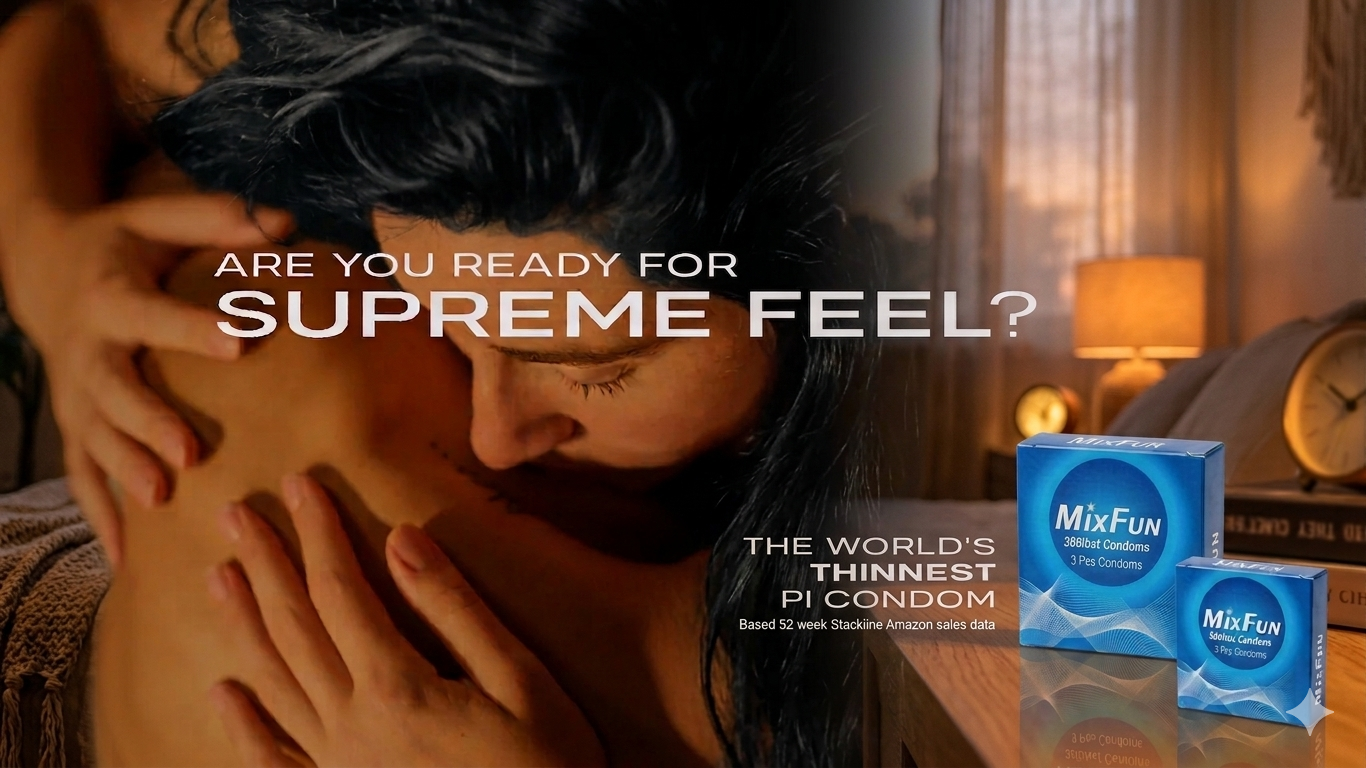
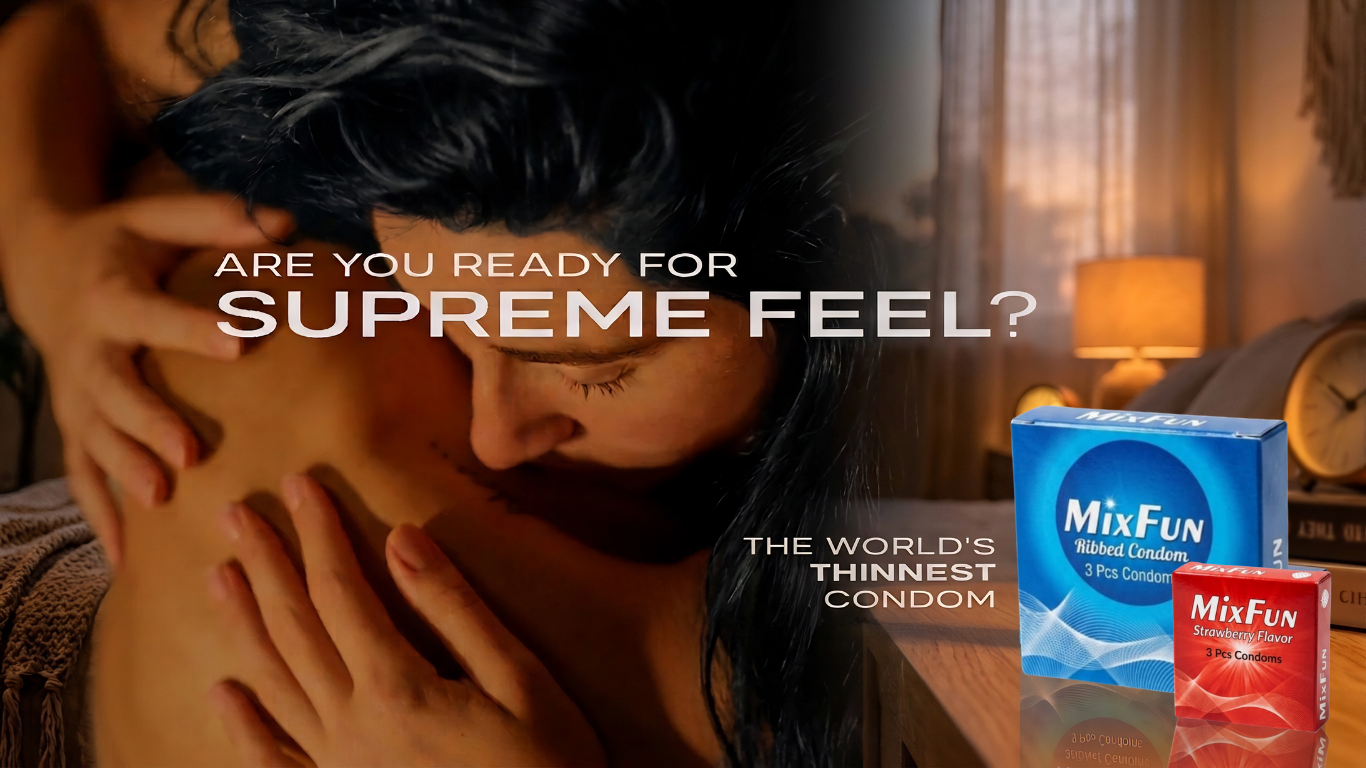
Update Hero 2 image path and commit updated Hero images

Changed region(s): [[0.5534, 0.5312, 0.9839, 1.0]]

diff --git a/src/components/Hero.tsx b/src/components/Hero.tsx
@@ -10,7 +10,7 @@ export function Hero() {
 
   const heroBanners = [
     { src: "/hero1.png", alt: "Are you ready for supreme feel?" },
-    { src: "/hero 2.jpeg", alt: "Experience the ultimate pleasure." },
+    { src: "/hero2.png", alt: "Experience the ultimate pleasure." },
     { src: "/hero3.png", alt: "Premium quality guaranteed." }
   ];
 
